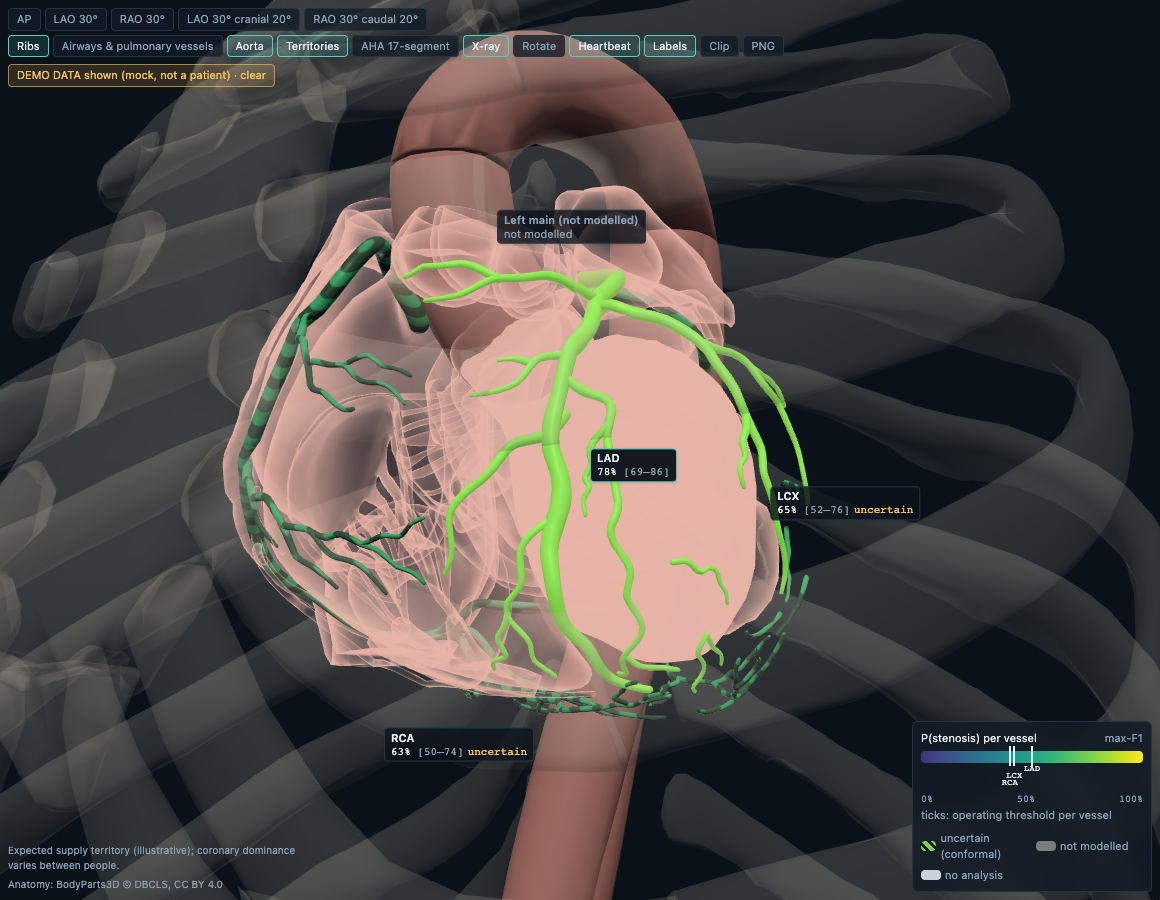
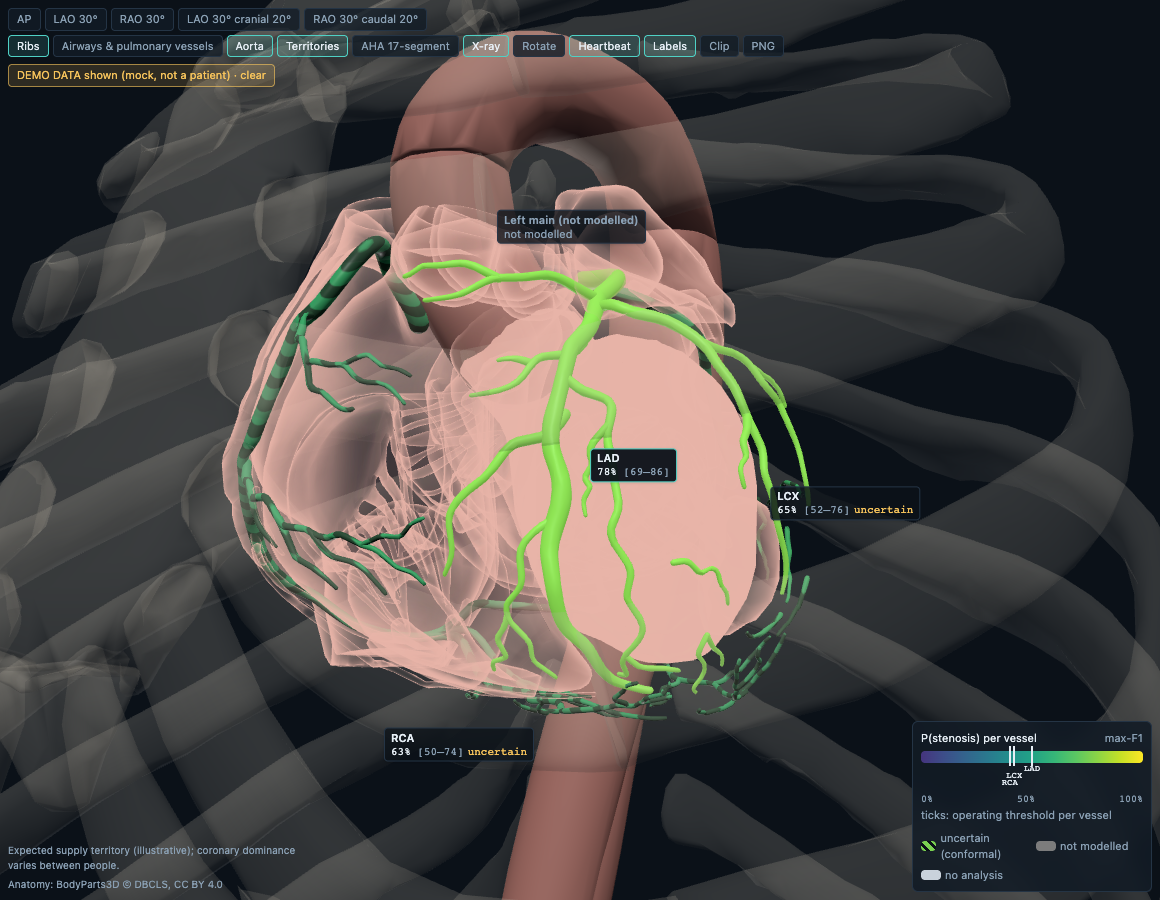
test(e2e): pause heartbeat during the 3D segment-hover check (flaky under animation); model tab intro reflects the sprint
Previous commit b2a02fb was made while this smoke test failed; fixed here, full suite green.

diff --git a/frontend/e2e/app.spec.ts b/frontend/e2e/app.spec.ts
@@ -29,6 +29,11 @@ test('full stack: preset → API → dashboard + 3D agree; slider updates live',
   // AHA segments are the default territories; hovering a 3D segment highlights the same bullseye segment.
   const ahaBtn = page.getByTestId('toggle-territory-mode')
   await expect(ahaBtn).toHaveText('AHA 17-segment')
+  // pause the heartbeat so the mesh does not move between projecting a point and hovering it
+  const beat = page.getByTestId('toggle-heartbeat')
+  const beating = (await beat.getAttribute('aria-pressed')) === 'true'
+  if (beating) await beat.click()
+  await page.waitForTimeout(300)
   let hit: { seg: number; x: number; y: number } | null = null
   for (const seg of [7, 1, 13, 12, 6, 2, 8, 17]) {
     const p = await page.evaluate((n) => window.__coronaryLens?.project(n) ?? null, `AHA_${String(seg).padStart(2, '0')}`)
@@ -42,6 +47,7 @@ test('full stack: preset → API → dashboard + 3D agree; slider updates live',
   await expect(page.locator(`[data-testid="bullseye"] [data-segment="${hit!.seg}"]`)).toHaveAttribute('data-hot', 'segment')
   await page.screenshot({ path: '../docs/img/app-aha-segments.png' })
   await page.mouse.move(5, 5)
+  if (beating) await beat.click()
   await ahaBtn.click()
   await expect(ahaBtn).toHaveText('nearest-artery estimate (14/17 agree with AHA)')
   await page.waitForTimeout(600)
